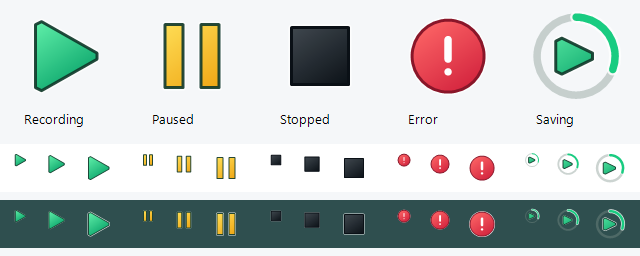
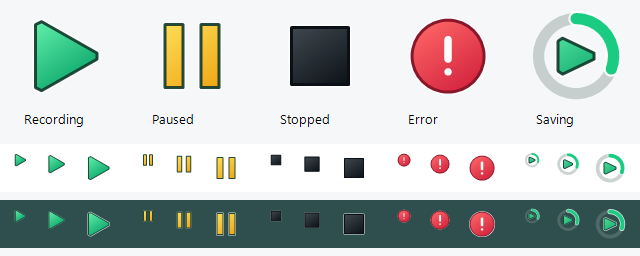
ui: center saving triangle and enlarge animated ring

diff --git a/src/PlayerIcons.cs b/src/PlayerIcons.cs
@@ -32,7 +32,13 @@ namespace Player
                 using (var rim = new Pen(Color.FromArgb(225, 255, 255, 255), 4))
                 using (var shape = new GraphicsPath())
                 {
-                    if (state == 0 || state == 4)
+                    if (state == 4)
+                    {
+                        shape.AddLines(new[] { new PointF(23, 20), new PointF(44, 30),
+                            new PointF(44, 34), new PointF(23, 44), new PointF(20, 42), new PointF(20, 22) });
+                        shape.CloseFigure();
+                    }
+                    else if (state == 0)
                     {
                         float inset = state == 4 ? 11 : 0;
                         shape.AddLines(new[] { new PointF(17 + inset / 2, 9 + inset),
@@ -65,16 +71,16 @@ namespace Player
                     }
                     if (state == 4)
                     {
-                        using (var track = new Pen(Color.FromArgb(100, 124, 145, 138), 5))
-                        using (var arc = new Pen(Color.FromArgb(25, 204, 129), 5))
-                        using (var outline = new Pen(Color.FromArgb(215, 255, 255, 255), 8))
+                        using (var track = new Pen(Color.FromArgb(100, 124, 145, 138), 7.5f))
+                        using (var arc = new Pen(Color.FromArgb(25, 204, 129), 7.5f))
+                        using (var outline = new Pen(Color.FromArgb(215, 255, 255, 255), 10.5f))
                         {
                             arc.StartCap = arc.EndCap = LineCap.Round;
                             outline.StartCap = outline.EndCap = LineCap.Round;
-                            g.DrawEllipse(track, 6, 6, 52, 52);
+                            g.DrawEllipse(track, 7, 7, 50, 50);
                             float angle = -90 + frame * 360f / FrameCount;
-                            g.DrawArc(outline, 6, 6, 52, 52, angle, 110);
-                            g.DrawArc(arc, 6, 6, 52, 52, angle, 110);
+                            g.DrawArc(outline, 7, 7, 50, 50, angle, 110);
+                            g.DrawArc(arc, 7, 7, 50, 50, angle, 110);
                         }
                     }
                 }
